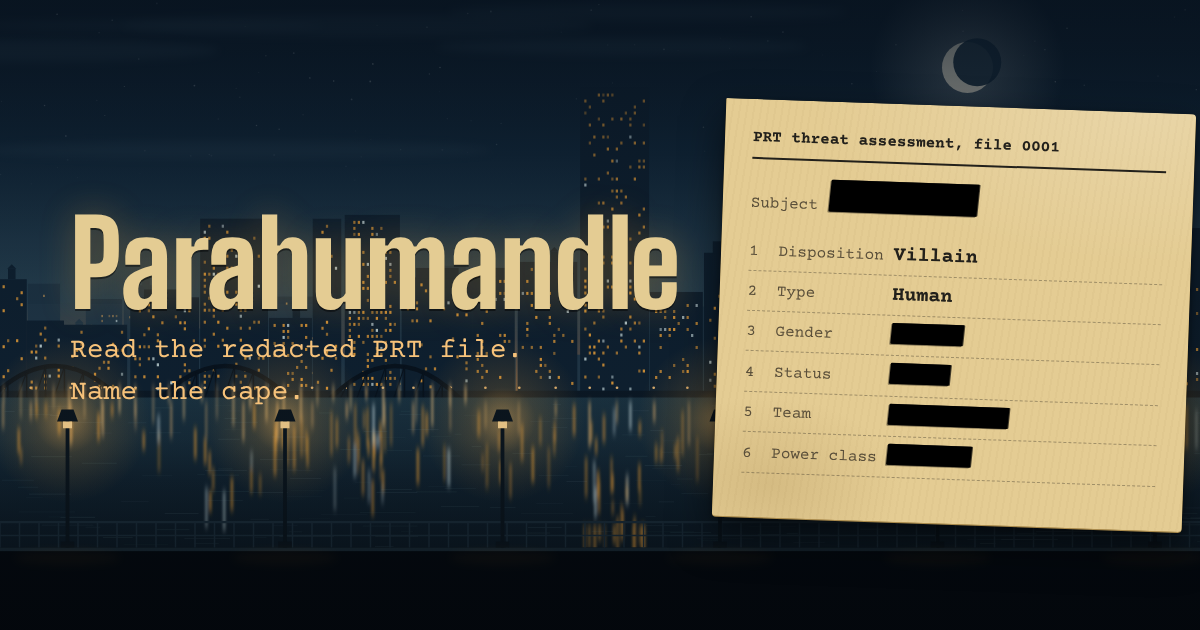
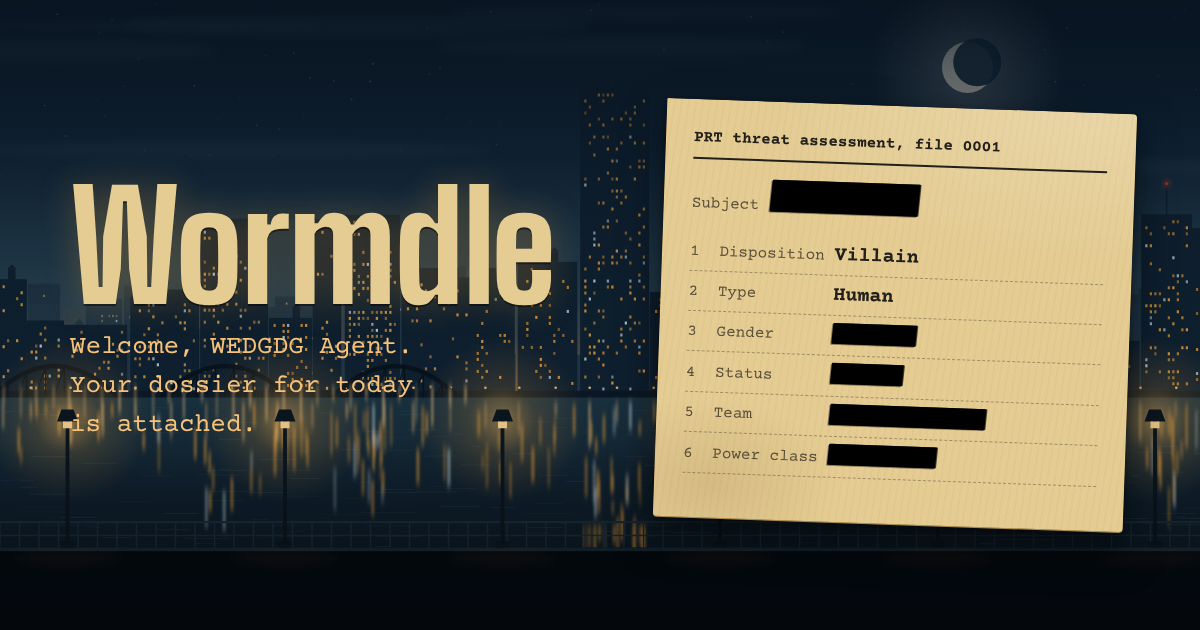
Rename the game to Wormdle and greet players as WEDGDG agents
- Title, page metadata, share text, README and preview image now say Wormdle.
- The tagline is now "Welcome, WEDGDG Agent #NNNN. Your dossier for today
  is attached." Each player gets a random agent number that's remembered
  between visits.
- Closing the spoiler warning no longer scrolls the page past the header.
- The browser storage key keeps its old name so saved progress carries over.

Claude-Session: https://claude.ai/code/session_01Q2rJagsxGbYcrTNoNQYqhz

Changed region(s): [[0.0617, 0.1508, 1.0, 0.8444], [0.0617, 0.6032, 0.3392, 0.6333], [0.0617, 0.6635, 0.2158, 0.6937]]

diff --git a/site/js/app.js b/site/js/app.js
@@ -1,4 +1,4 @@
-// Parahumandle — guess the cape from a redacted PRT file.
+// Wormdle — guess the cape from a redacted PRT file.
 // Data comes from data/game.json, which scripts/build_data.py builds from the Excel workbook.
 
 import {
@@ -66,6 +66,7 @@ async function load() {
   if (MODES[fromHash]) state.mode = fromHash;
 
   fillHelp();
+  greetAgent();
   const updated = new Date(game.generated);
   $("#data-stamp").textContent =
     `Files updated ${updated.toLocaleDateString(undefined, { year: "numeric", month: "short", day: "numeric" })}. ` +
@@ -528,7 +529,7 @@ function nextFileText() {
 
 function shareText(puzzle) {
   const { mode, progress, answer, number } = puzzle;
-  const title = `Parahumandle ${MODES[mode].tab} #${number}`;
+  const title = `Wormdle ${MODES[mode].tab} #${number}`;
   let grid;
   let score;
   if (mode === "lineup") {
@@ -675,7 +676,7 @@ function maybeWarnSpoilers() {
   dialog.addEventListener("close", () => {
     store.data.spoilersOk = true;
     store.save();
-    $("#guess-input")?.focus();
+    $("#guess-input")?.focus({ preventScroll: true });
   }, { once: true });
   openDialog(dialog);
 }
@@ -684,6 +685,15 @@ function fillHelp() {
   $("#help-clues").textContent = game.clues.map((c) => c.label.toLowerCase()).join(", ");
   $("#help-guesses").textContent = game.config.maxGuesses;
   $("#help-reset").textContent = game.config.resetLabel.toLowerCase();
+}
+
+// Each player gets a Watchdog (WEDGDG) agent number that stays the same between visits.
+function greetAgent() {
+  if (!store.data.agent) {
+    store.data.agent = 1000 + Math.floor(Math.random() * 9000);
+    store.save();
+  }
+  $("#agent-line").textContent = `Welcome, WEDGDG Agent #${store.data.agent}.`;
 }
 
 function announce(text) {

diff --git a/site/index.html b/site/index.html
@@ -3,11 +3,11 @@
 <head>
 <meta charset="utf-8">
 <meta name="viewport" content="width=device-width, initial-scale=1">
-<title>Parahumandle</title>
-<meta name="description" content="A daily guessing game for Worm and Ward. Read the redacted PRT file and name the cape.">
+<title>Wormdle</title>
+<meta name="description" content="A daily guessing game for Worm and Ward. Your dossier for today is attached.">
 <meta name="theme-color" content="#0f2233">
-<meta property="og:title" content="Parahumandle">
-<meta property="og:description" content="Read the redacted PRT file and name the cape. A daily guessing game for Worm and Ward.">
+<meta property="og:title" content="Wormdle">
+<meta property="og:description" content="A daily guessing game for Worm and Ward. Your dossier for today is attached.">
 <meta property="og:type" content="website">
 <meta property="og:image" content="https://raunakdune.github.io/parahumans-guesser-game/assets/og-image.png">
 <meta property="og:url" content="https://raunakdune.github.io/parahumans-guesser-game/">
@@ -22,8 +22,8 @@
 <div class="scene" aria-hidden="true"></div>
 
 <header class="masthead">
-  <h1 class="wordmark">Parahumandle</h1>
-  <p class="tagline">Read the redacted PRT file. Name the cape.</p>
+  <h1 class="wordmark">Wormdle</h1>
+  <p class="tagline"><span id="agent-line">Welcome, WEDGDG Agent.</span> <span>Your dossier for today is attached.</span></p>
   <nav class="masthead-actions" aria-label="Game menu">
     <button type="button" class="icon-button" data-open="help">How to play</button>
     <button type="button" class="icon-button" data-open="stats">Stats</button>

diff --git a/site/css/style.css b/site/css/style.css
@@ -1,4 +1,4 @@
-/* Parahumandle — a PRT case file on a night riverfront.
+/* Wormdle — a PRT case file on a night riverfront.
    Two typefaces: Big Shoulders Display (civic, condensed) for names and stamps,
    Courier Prime (typewriter) for everything written on the file. */
 
@@ -122,6 +122,7 @@ cite { font-style: italic; }
   color: var(--manila);
   text-shadow: 0 2px 0 rgba(0, 0, 0, .45), 0 0 34px rgba(240, 164, 58, .28);
 }
+.tagline span { display: block; }
 .tagline {
   grid-column: 1;
   margin: 10px 0 0;

diff --git a/site/js/util.js b/site/js/util.js
@@ -27,7 +27,7 @@ export function h(tag, attrs = {}, ...children) {
 }
 
 // ---------------------------------------------------------------- storage
-const KEY = "parahumandle:v1";
+const KEY = "parahumandle:v1";   // storage key kept from the game's first name so saved progress carries over
 let memory = {};
 
 export const store = {

diff --git a/scripts/build_data.py b/scripts/build_data.py
@@ -1,5 +1,5 @@
 #!/usr/bin/env python3
-"""Build the game's data file from the Parahumandle Excel workbook.
+"""Build Wormdle's data file from the Excel workbook in data/.
 
     python scripts/build_data.py            # build site/data/game.json
     python scripts/build_data.py --check    # validate only, write nothing
@@ -458,7 +458,7 @@ def build(workbook: Path, now_utc: dt.datetime, write: bool = True, quiet: bool 
                      "players will see a stand-in for that day")
 
     game = {
-        "title": "Parahumandle",
+        "title": "Wormdle",
         "generated": now_utc.replace(microsecond=0).isoformat().replace("+00:00", "Z"),
         "source": workbook.name,
         "config": {

diff --git a/tests/test_build.py b/tests/test_build.py
@@ -74,7 +74,7 @@ class RealWorkbook(unittest.TestCase):
     def test_builds_and_answers_are_complete(self):
         game = bd.build(bd.find_workbook(None), dt.datetime(2026, 10, 18, 12, tzinfo=UTC), quiet=True)
         data = json.loads(bd.OUT_PATH.read_text(encoding="utf-8"))
-        self.assertEqual(data["title"], "Parahumandle")
+        self.assertEqual(data["title"], "Wormdle")
         by_id = {c["id"]: c for c in data["capes"]}
         fields = [c["field"] for c in data["clues"]]
         self.assertEqual(len(fields), 6)

diff --git a/README.md b/README.md
@@ -1,7 +1,8 @@
-# Parahumandle
+# Wormdle
 
 A daily guessing game for Wildbow's *Worm* and *Ward*. Each day there's a redacted PRT file on a cape; every wrong
-guess lifts another black bar until you name them.
+guess lifts another black bar until you name them. Players are greeted as WEDGDG (Watchdog) agents, each with their
+own agent number.
 
 **Play:** https://raunakdune.github.io/parahumans-guesser-game/ (after the one-time setup below)
 
